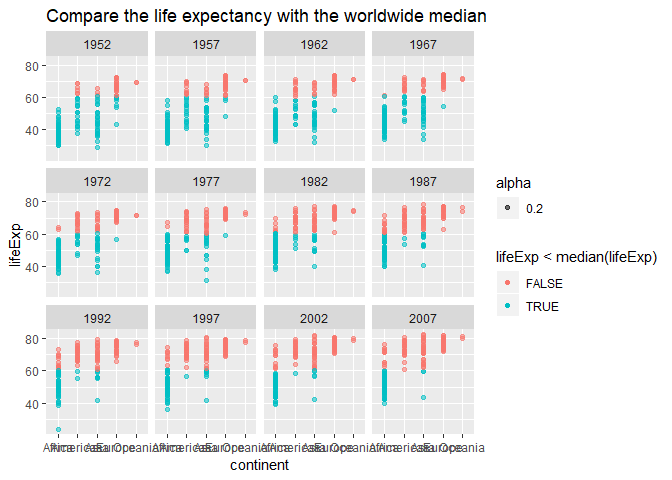
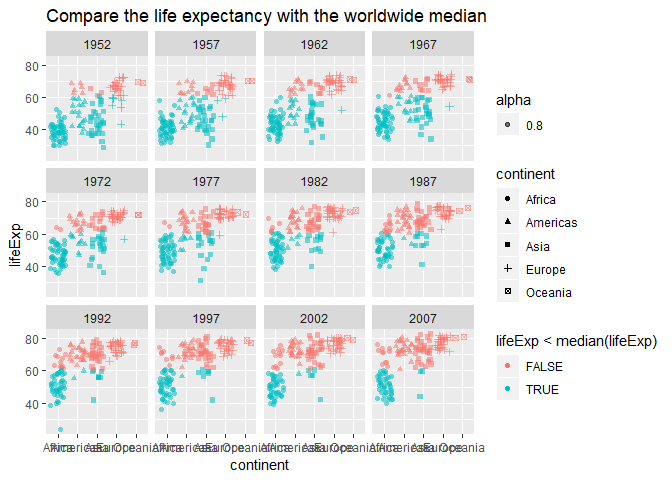
get table and figure side-by-side

diff --git a/hw03.md b/hw03.md
@@ -22,26 +22,17 @@ df <- gapminder %>%
   # for each continent
   group_by(continent) %>%  
   summarize(max = max(gdpPercap), min = min(gdpPercap))
-  
-# show the table in a decent way
-knitr::kable(df)  
 ```
 
-| continent |       max |        min |
-| :-------- | --------: | ---------: |
-| Africa    |  21951.21 |   241.1659 |
-| Americas  |  42951.65 |  1201.6372 |
-| Asia      | 113523.13 |   331.0000 |
-| Europe    |  49357.19 |   973.5332 |
-| Oceania   |  34435.37 | 10039.5956 |
-
 ``` r
-df %>% 
+dfplt <- df %>% 
   ggplot(aes(continent)) + 
   # plot the points in the same graph and differentiate by color
   geom_point(aes(y = max, colour = "max")) + 
   geom_point(aes(y = min, colour = "min")) +  
   ggtitle("The max and min of GDP per capita for all continents")
+suppressPackageStartupMessages(library(gridExtra))
+grid.arrange(tableGrob(df), dfplt, nrow = 1)
 ```
 
 ![](hw03_files/figure-gfm/The%20max%20and%20min%20of%20GDP%20per%20capita%20for%20all%20continents-1.png)<!-- -->
@@ -114,7 +105,7 @@ Compute the trimmed mean which discard the 10% largest and lowest value.
 
 </div>
 
-Life expectancy is constantly increase these years.
+In general, life expectancy is constantly increase these years.
 
   - **How is life expectancy changing over time on different
     continents?**
@@ -289,7 +280,7 @@ knitr::kable(df)
 ``` r
 gapminder %>% 
   ggplot(aes(x = continent, y = lifeExp)) +
-  geom_point(aes(color = lifeExp < median(lifeExp), alpha = 0.2)) +
+  geom_jitter(aes(color = lifeExp < median(lifeExp), alpha = 0.8, shape = continent)) +
   facet_wrap(~ year) + 
   ggtitle("Compare the life expectancy with the worldwide median")
 ```
@@ -297,7 +288,7 @@ gapminder %>%
 ![](hw03_files/figure-gfm/Compare%20the%20life%20expectancy%20with%20the%20worldwide%20median-1.png)<!-- -->
 
 Scatter plot was used here to describe the life expectancy of each
-continent compared with the general situation in every year. It can be
+continent compared with the general situation every year. It can be
 concluded that part of countries from Asia and Africa bring down the
 benchmark. *I was in trouble to show the variable name of x-axis
 completely.*
@@ -314,6 +305,7 @@ df %>%
 ```
 
 ![](hw03_files/figure-gfm/The%20number%20of%20low%20life%20expectancy%20countries-1.png)<!-- -->
+
 Except Oceania, the number of countries with low life expectancy has
 seen a decrease in every continent over time.
 
@@ -322,8 +314,8 @@ seen a decrease in every continent over time.
     This will generate interesting questions to follow up on in class.**
 
 Go on with the last task. To make it more meaningful, I decided to use
-yearly benchmark for measure, therefore it comes out different
-conclusions.
+yearly benchmark for measure, therefore it came out a different
+conclusion.
 
 ``` r
 # compute the median for each year
@@ -401,6 +393,7 @@ df %>%
 ```
 
 ![](hw03_files/figure-gfm/2:%20The%20number%20of%20countries%20with%20low%20life%20expectancy-1.png)<!-- -->
+
 Different from the last task, the number of countries with low life
 expectancy is basically flat over time among four continents. There is a
 little decrease in Asia.
